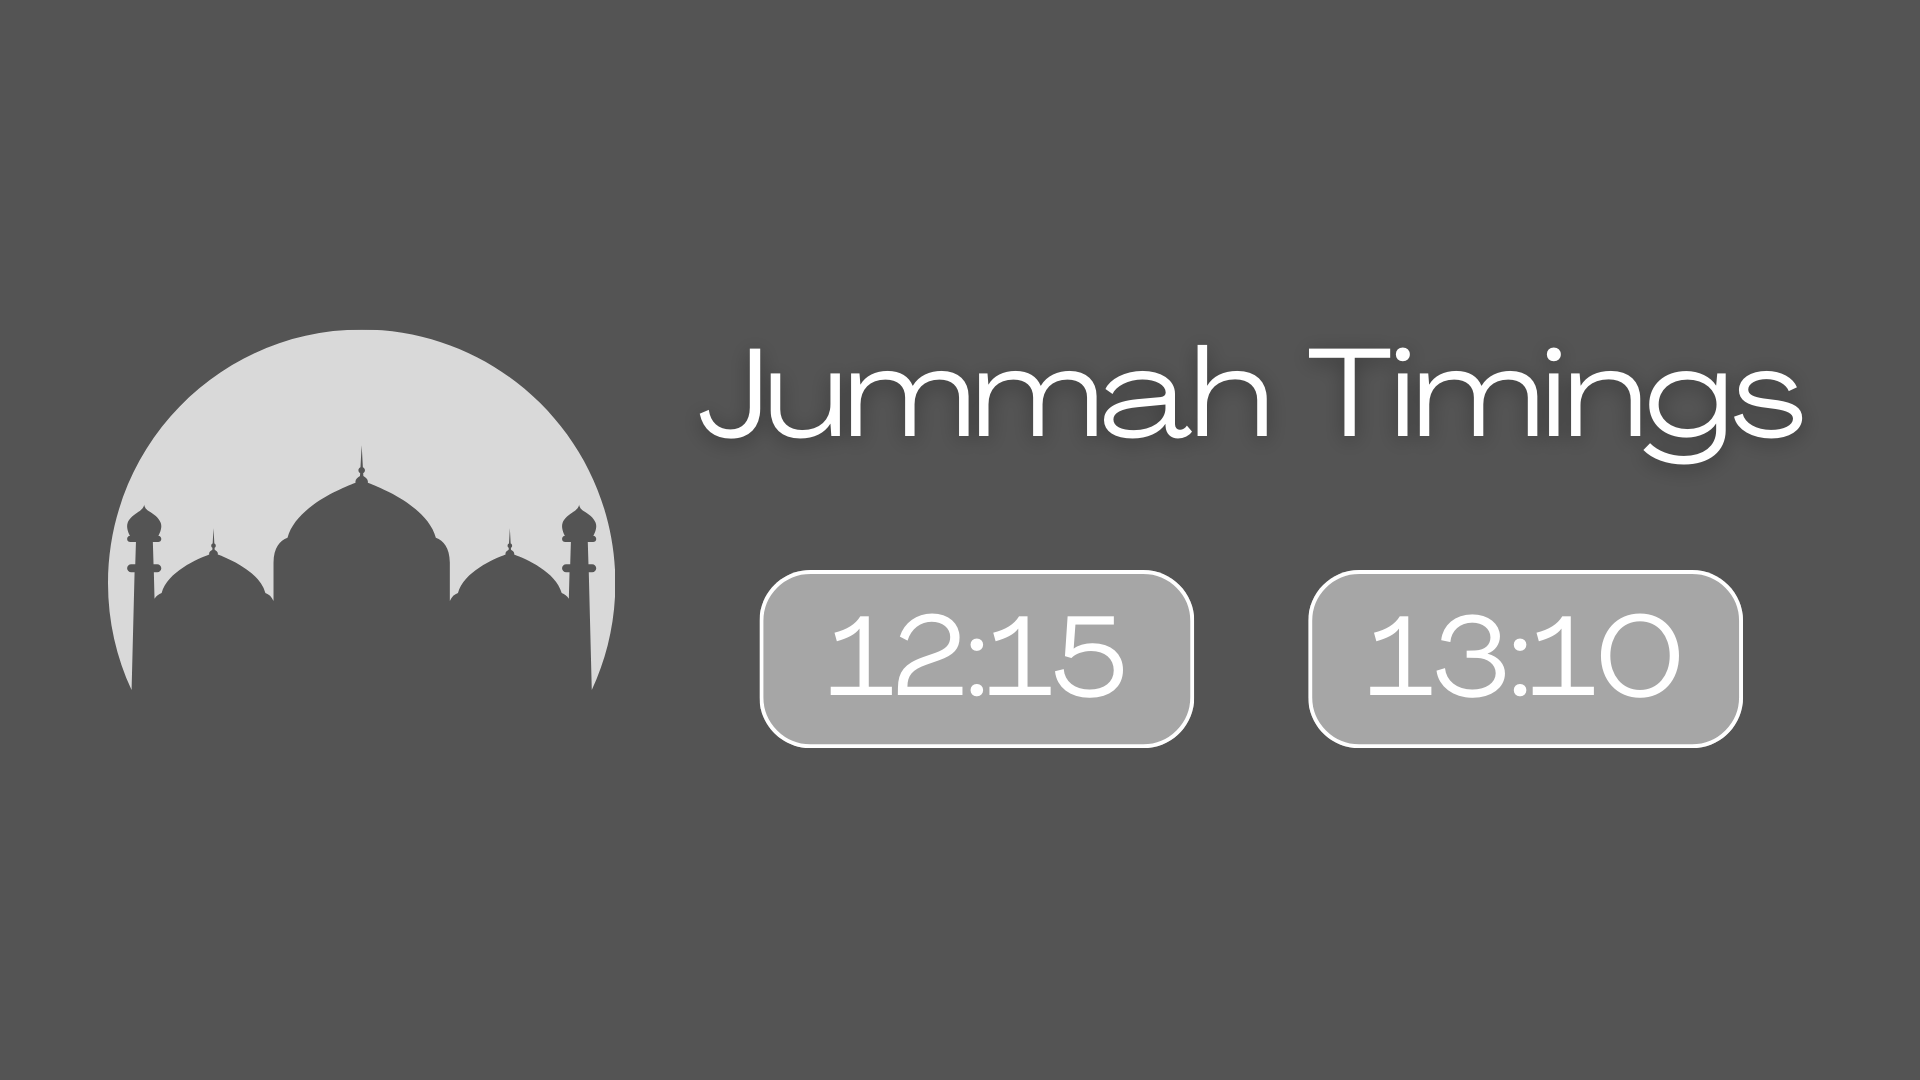
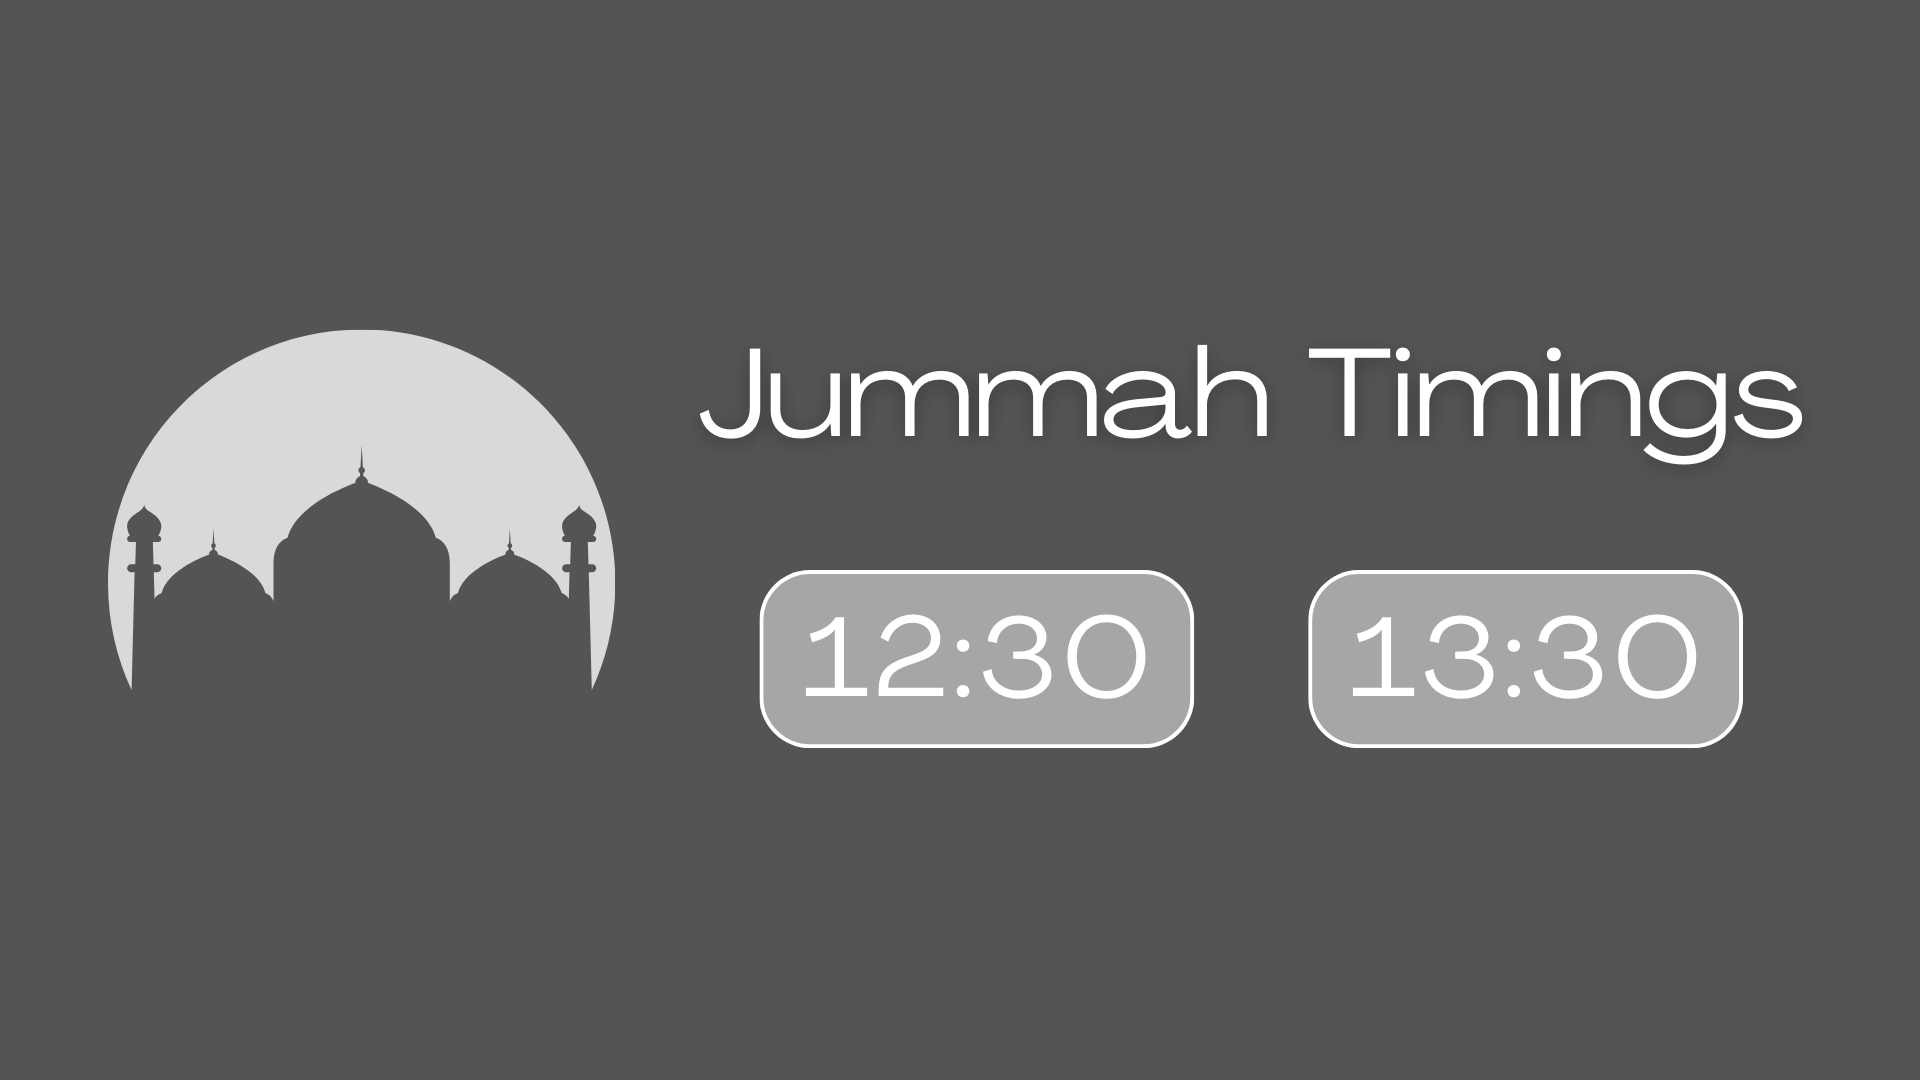
update jummah times

Changed region(s): [[0.6875, 0.55, 0.9062, 0.6417], [0.4062, 0.55, 0.5938, 0.6417]]

diff --git a/src/Configs/timingConfigs.js b/src/Configs/timingConfigs.js
@@ -41,4 +41,4 @@ export const eventTimeFrames = [
                                     {'MainTitle':'Eid Prayer','BottomTitle':'Now in progress','Date':'28/06/2023','StartTime':'11:00','EndTime':'11:30:00'},
                                     {'MainTitle':'Eid Mubarak','BottomTitle':'From BHM','Date':'02/07/2023','StartTime':'17:30','EndTime':'17:31'}
                                ]
-export const jummahPrayerTimes = ['12:15','13:10']
+export const jummahPrayerTimes = ['12:30','13:30']
